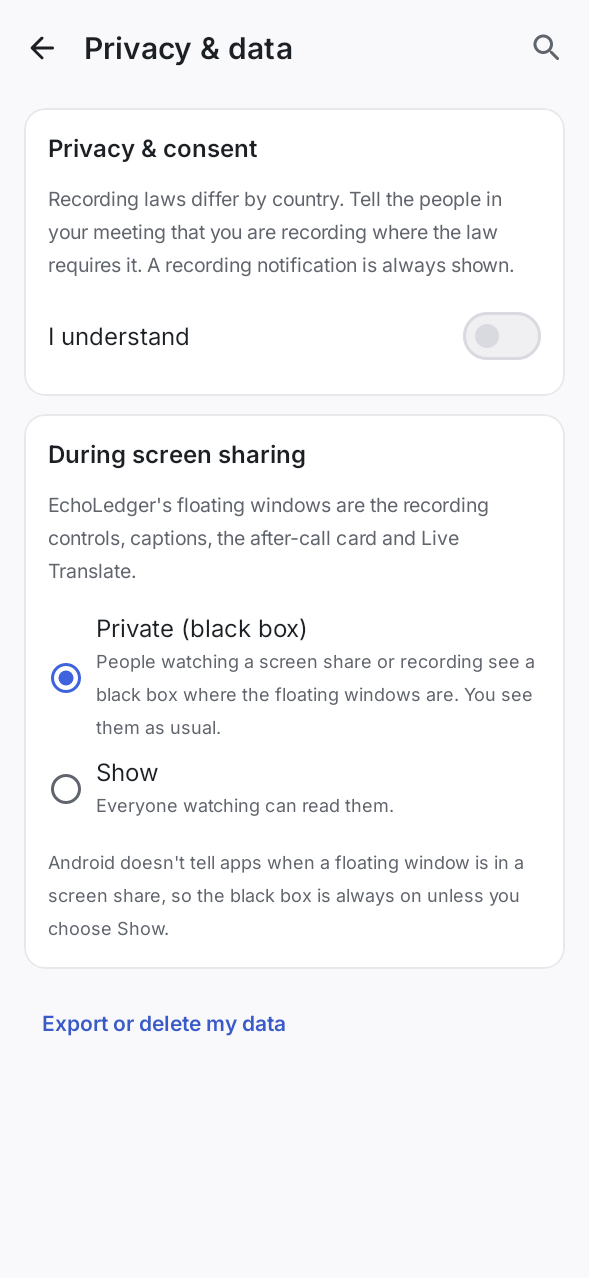
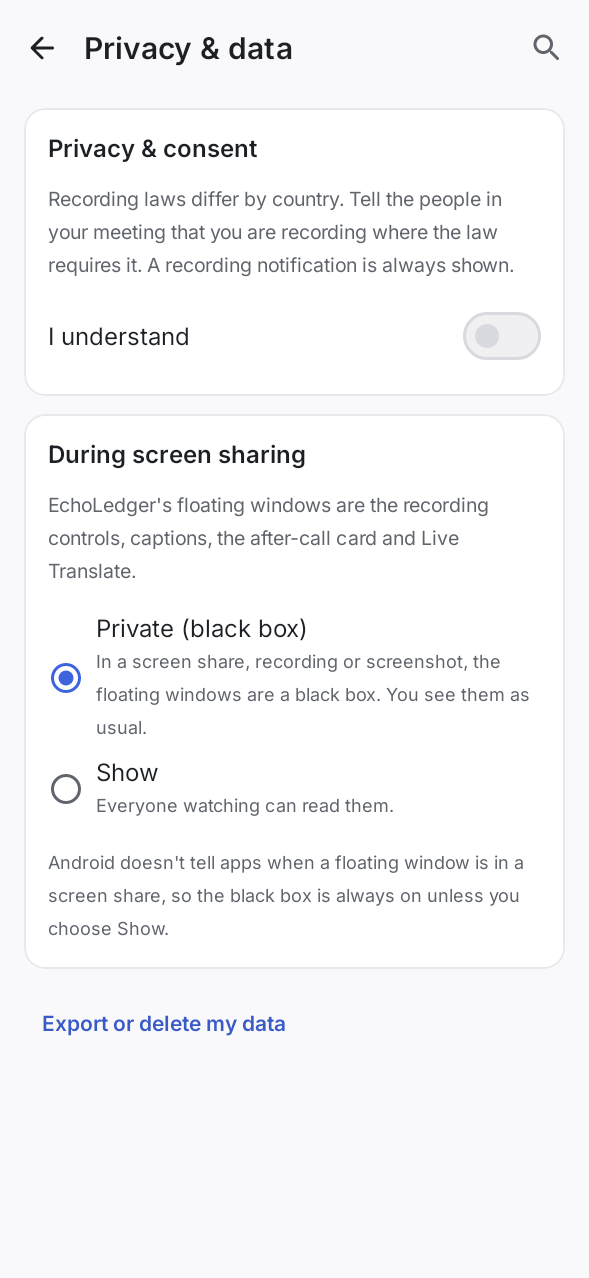
Phone wording: Display over other apps names the floating windows; Private and the screenshots line say screenshots too
Review of the v1.8.1 phone work:
- Setup: "Caption bubble (optional)" is "Display over other apps (optional)", the Captions page's words, with one line
  naming EchoLedger's floating windows (recording controls, captions, after-call card, Live Translate); the setup
  step's title too.
- During screen sharing, Private: "In a screen share, recording or screenshot, the floating windows are a black box.
  You see them as usual." FLAG_SECURE blacks out screenshots, the person's own too.
- App lock's "Hide content in Recents and screenshots" no longer says screenshots are always allowed: the app's screens
  can be screenshotted, and the floating windows are always left out of screenshots unless Show is chosen.
- SettingsStore's screenShareMode KDoc matches ShareGuard.Mode.of ("hide" = Private, "show" = Show, "black_box" and
  unknown read as Private).
- ScreenShareSettingTest waits for the mode to reach the floating windows: the store commits on its own thread and the
  save's continuation tells ShareGuard on the main one, which the old assert raced.

Screenshots, light and dark: phone-setup, phone-settings-privacy, phone-settings-lock, phone-translate-hidden (the
real Live Translate box in Game and Watch mode, and the grey dot that stays when the windows are hidden).

Changed region(s): [[0.1528, 0.4883, 0.9168, 0.5798]]

diff --git a/mobile/app/src/test/java/com/echoledger/mobile/ui/ScreenshotsTest.kt b/mobile/app/src/test/java/com/echoledger/mobile/ui/ScreenshotsTest.kt
@@ -2,6 +2,8 @@ package com.echoledger.mobile.ui
 
 import android.graphics.Bitmap
 import androidx.compose.foundation.layout.fillMaxSize
+import androidx.compose.foundation.layout.fillMaxWidth
+import androidx.compose.foundation.layout.height
 import androidx.compose.foundation.layout.padding
 import androidx.compose.material3.MaterialTheme
 import androidx.compose.material3.Surface
@@ -41,6 +43,7 @@ import com.echoledger.mobile.testsupport.ScreenTest
 import com.echoledger.mobile.testsupport.ServerFixtures
 import com.echoledger.mobile.testsupport.pairLocally
 import com.echoledger.mobile.testsupport.pumpUntil
+import com.echoledger.mobile.testsupport.simulateBiometrics
 import com.echoledger.mobile.testsupport.storeRecording
 import com.echoledger.mobile.ui.design.DesignGallery
 import com.github.takahirom.roborazzi.captureRoboImage
@@ -245,6 +248,88 @@ class ScreenshotsTest : ScreenTest() {
         compose.onNodeWithText("Privacy & data").performScrollTo().performClick()
         compose.onNodeWithText("Private (black box)").assertExists()
         capture("settings-privacy")
+    }
+
+    /** Setup: Display over other apps names the floating windows it is for (review of v1.8.1). */
+    @Test
+    fun setupOverlayStep() {
+        runBlocking { app.pairLocally(server) }
+        shoot {
+            SetupScreen(
+                vm,
+                Capabilities(34, true, micPermission = true, notificationPermission = false, overlayPermission = false),
+                onBack = {},
+                onRecheck = {}
+            )
+        }
+        compose.onNodeWithText("Display over other apps (optional)").assertExists()
+        capture("setup")
+    }
+
+    /**
+     * Live Translate while the floating windows are hidden (review of v1.8.1): the real box with its text, then the same
+     * place hidden, where only the grey dot ("Show EchoLedger windows") stays, in Game and in Watch mode.
+     */
+    @Test
+    fun translateHidden() {
+        shoot {
+            androidx.compose.foundation.layout.Column(
+                Modifier.padding(16.dp),
+                verticalArrangement = androidx.compose.foundation.layout.Arrangement.spacedBy(24.dp)
+            ) {
+                listOf(false, true).forEach { subtitles ->
+                    androidx.compose.ui.viewinterop.AndroidView(
+                        factory = { context ->
+                            com.echoledger.mobile.overlay.TranslateTextView(context, subtitles).apply {
+                                style(
+                                    18,
+                                    2,
+                                    com.echoledger.mobile.translate.BoxBackground.DARK,
+                                    showOriginal = true,
+                                    language = "EN",
+                                    subtitleBox = true
+                                )
+                                content(
+                                    "Push to the left side, they are behind the wall.",
+                                    "",
+                                    "بائیں طرف چلو، وہ دیوار کے پیچھے ہیں۔",
+                                    "UR",
+                                    false,
+                                    null
+                                )
+                            }
+                        },
+                        modifier = Modifier.fillMaxWidth().height(110.dp)
+                    )
+                    androidx.compose.foundation.layout.Box(Modifier.fillMaxWidth().height(110.dp)) {
+                        com.echoledger.mobile.overlay.PrivateDot(
+                            onShow = {},
+                            modifier = Modifier.align(androidx.compose.ui.Alignment.TopEnd)
+                        )
+                    }
+                }
+            }
+        }
+        capture("translate-hidden")
+    }
+
+    /** Settings → App lock: the floating windows are left out of screenshots unless During screen sharing is Show. */
+    @Test
+    fun settingsAppLock() {
+        runBlocking {
+            app.pairLocally(server)
+            app.graph.settings.update { it.copy(appLockEnabled = true) }
+        }
+        app.simulateBiometrics(true)
+        pumpUntil("the lock to be on") { vm.settings.value.appLockEnabled }
+        shoot {
+            androidx.compose.runtime.CompositionLocalProvider(LocalUnlockPrompter provides UnlockPrompter { it(true) }) {
+                SettingsScreen(vm, onSetup = {})
+            }
+        }
+        compose.onNodeWithText("App lock").performScrollTo().performClick()
+        compose.onNodeWithText("Hide content in Recents and screenshots", useUnmergedTree = true).assertExists()
+        capture("settings-lock")
     }
 
     /** Settings → Captions: live captions are a floating window over the call. */

diff --git a/mobile/app/src/main/java/com/echoledger/mobile/ui/Screens.kt b/mobile/app/src/main/java/com/echoledger/mobile/ui/Screens.kt
@@ -826,7 +826,11 @@ fun SetupScreen(vm: MainViewModel, capabilities: Capabilities, onBack: () -> Uni
                     notifLauncher.launch(Manifest.permission.POST_NOTIFICATIONS)
                 }
             }
-            StepRow("Caption bubble (optional)", capabilities.overlayPermission) {
+            StepRow(
+                "Display over other apps (optional)",
+                capabilities.overlayPermission,
+                detail = "For EchoLedger's floating windows: the recording controls, captions, the after-call card and Live Translate."
+            ) {
                 context.startActivity(Intent(Settings.ACTION_MANAGE_OVERLAY_PERMISSION, Uri.parse("package:${context.packageName}")))
             }
         }
@@ -918,7 +922,7 @@ fun SetupScreen(vm: MainViewModel, capabilities: Capabilities, onBack: () -> Uni
 }
 
 @Composable
-private fun StepRow(title: String, done: Boolean, onFix: () -> Unit) {
+private fun StepRow(title: String, done: Boolean, detail: String? = null, onFix: () -> Unit) {
     Row(verticalAlignment = Alignment.CenterVertically) {
         Icon(
             if (done) Icons.Rounded.CheckCircle else Icons.Rounded.RadioButtonUnchecked,
@@ -927,12 +931,10 @@ private fun StepRow(title: String, done: Boolean, onFix: () -> Unit) {
             modifier = Modifier.size(18.dp)
         )
         Spacer(Modifier.width(8.dp))
-        Text(
-            title,
-            color = if (done) Brand.Success else Brand.Text,
-            modifier = Modifier.weight(1f).semantics { stateDescription = if (done) "Done" else "Needed" },
-            fontSize = 14.sp
-        )
+        Column(Modifier.weight(1f).semantics(mergeDescendants = true) { stateDescription = if (done) "Done" else "Needed" }) {
+            Text(title, color = if (done) Brand.Success else Brand.Text, fontSize = 14.sp)
+            detail?.let { Text(it, color = Brand.Muted, fontSize = 12.sp) }
+        }
         if (!done) TextButton(onClick = onFix) { Text("Allow") }
     }
 }
@@ -1082,7 +1084,12 @@ internal fun AppLockSection(vm: MainViewModel, settings: AppSettings) {
             Row(verticalAlignment = Alignment.CenterVertically) {
                 Column(Modifier.weight(1f)) {
                     Text("Hide content in Recents and screenshots")
-                    Text("Off by default: screenshots are always allowed unless you turn this on.", color = Brand.Muted, fontSize = 12.sp)
+                    Text(
+                        "Off by default, so you can take screenshots of the app. EchoLedger's floating windows are always left out of " +
+                            "screenshots unless you choose Show in During screen sharing.",
+                        color = Brand.Muted,
+                        fontSize = 12.sp
+                    )
                 }
                 Switch(
                     checked = settings.secureScreen,

diff --git a/mobile/app/src/test/java/com/echoledger/mobile/ui/ScreenShareSettingTest.kt b/mobile/app/src/test/java/com/echoledger/mobile/ui/ScreenShareSettingTest.kt
@@ -38,7 +38,7 @@ class ScreenShareSettingTest : ScreenTest() {
         compose.onNodeWithText("Show").assertIsNotSelected()
         compose.onAllNodes(SemanticsMatcher.keyIsDefined(SemanticsProperties.Selected)).assertCountEquals(2)
         compose.onNodeWithText(
-            "People watching a screen share or recording see a black box where the floating windows are. You see them as usual.",
+            "In a screen share, recording or screenshot, the floating windows are a black box. You see them as usual.",
             useUnmergedTree = true
         ).assertExists()
         compose.onNodeWithText("Everyone watching can read them.", useUnmergedTree = true).assertExists()
@@ -55,12 +55,13 @@ class ScreenShareSettingTest : ScreenTest() {
 
         compose.onNodeWithText("Show").performClick()
         pumpUntil("Show to be saved") { stored() == "show" }
-        assertEquals(ShareGuard.Mode.SHOW, ShareGuard.mode.value)
+        // The store commits on its own thread; the save's own continuation tells the floating windows on the main one.
+        pumpUntil("Show to reach the floating windows") { ShareGuard.mode.value == ShareGuard.Mode.SHOW }
         compose.onNodeWithText("Show").assertIsSelected()
 
         compose.onNodeWithText("Private (black box)").performClick()
         pumpUntil("Private to be saved") { stored() == "hide" }
-        assertEquals(ShareGuard.Mode.PRIVATE, ShareGuard.mode.value)
+        pumpUntil("Private to reach the floating windows") { ShareGuard.mode.value == ShareGuard.Mode.PRIVATE }
     }
 
     @Test

diff --git a/mobile/app/src/test/java/com/echoledger/mobile/ui/SetupScreenTest.kt b/mobile/app/src/test/java/com/echoledger/mobile/ui/SetupScreenTest.kt
@@ -94,7 +94,11 @@ class SetupScreenTest : ScreenTest() {
 
         compose.onNodeWithText("Microphone").assertIsDisplayed()
         compose.onNodeWithText("Notifications (Stop / Keep / Discard actions)").assertIsDisplayed()
-        compose.onNodeWithText("Caption bubble (optional)").assertIsDisplayed()
+        compose.onNodeWithText("Display over other apps (optional)").assertIsDisplayed()
+        compose.onNodeWithText(
+            "For EchoLedger's floating windows: the recording controls, captions, the after-call card and Live Translate.",
+            useUnmergedTree = true
+        ).assertExists()
         compose.onAllNodesWithText("Allow").assertCountEquals(2)
     }
 
@@ -130,7 +134,7 @@ class SetupScreenTest : ScreenTest() {
     }
 
     @Test
-    fun `Allow for the caption bubble opens the overlay settings page`() {
+    fun `Allow for display over other apps opens the overlay settings page`() {
         showSetup(caps(mic = true, notif = true, overlay = false))
 
         compose.onNodeWithText("Allow").performClick()

diff --git a/mobile/app/src/androidTest/java/com/echoledger/mobile/e2e/PermissionsAndRecordingTest.kt b/mobile/app/src/androidTest/java/com/echoledger/mobile/e2e/PermissionsAndRecordingTest.kt
@@ -89,7 +89,7 @@ class PermissionsAndRecordingTest : E2eTest() {
         openSetup()
         assertTrue(Ui.has("•  Microphone"))
         assertTrue(Ui.hasContaining("Notifications"))
-        assertTrue(Ui.hasContaining("Caption bubble"))
+        assertTrue(Ui.hasContaining("Display over other apps"))
         assertTrue(Ui.hasContaining("Not enabled yet.") || Ui.hasContaining("helper"))
         Ui.clickDescription("Back")
         Ui.openTab("Record")
@@ -131,9 +131,9 @@ class PermissionsAndRecordingTest : E2eTest() {
     }
 
     @Test
-    fun theCaptionBubbleRowOpensTheSystemOverlaySettings() {
+    fun theDisplayOverOtherAppsRowOpensTheSystemOverlaySettings() {
         openSetup()
-        allowFor("•  Caption bubble (optional)").click()
+        allowFor("•  Display over other apps (optional)").click()
         Ui.awaitCondition("the overlay permission screen", Ui.NORMAL) { Ui.find(By.pkg("com.android.settings")) != null }
         assertFalse(Settings.canDrawOverlays(Ui.context))
         Ui.device.pressBack()

diff --git a/mobile/app/src/main/java/com/echoledger/mobile/data/SettingsStore.kt b/mobile/app/src/main/java/com/echoledger/mobile/data/SettingsStore.kt
@@ -37,7 +37,11 @@ data class AppSettings(
     val closedAnnouncements: List<String> = emptyList(),
     /** The home-screen widget shows "WhatsApp call" instead of each recording's title (since v1.6). */
     val widgetHideTitles: Boolean = false,
-    /** Since v1.8.1, while EchoLedger's cards are seen in a screen share: "hide" (a dot), "black_box" (FLAG_SECURE) or "show". */
+    /**
+     * Since v1.8.1, Settings → Privacy & data → During screen sharing ([com.echoledger.mobile.core.ShareGuard.Mode.of]):
+     * "hide" = Private, the default (FLAG_SECURE on every floating window); "show" = Show; "black_box" (the first v1.8.1
+     * builds) and any unknown value read as Private.
+     */
     val screenShareMode: String = "hide",
     /** Absent in settings stored before v1.1.1, which also reset the old default "hide content" (on) to off. */
     val settingsVersion: Int = 2,

diff --git a/mobile/app/src/main/java/com/echoledger/mobile/ui/SettingsScreens.kt b/mobile/app/src/main/java/com/echoledger/mobile/ui/SettingsScreens.kt
@@ -790,7 +790,7 @@ private fun ScreenShareSection(vm: MainViewModel, settings: AppSettings) {
         Triple(
             ShareGuard.Mode.PRIVATE,
             "Private (black box)",
-            "People watching a screen share or recording see a black box where the floating windows are. You see them as usual."
+            "In a screen share, recording or screenshot, the floating windows are a black box. You see them as usual."
         ),
         Triple(ShareGuard.Mode.SHOW, "Show", "Everyone watching can read them.")
     )

diff --git a/mobile/app/src/main/java/com/echoledger/mobile/privilege/Capability.kt b/mobile/app/src/main/java/com/echoledger/mobile/privilege/Capability.kt
@@ -55,5 +55,5 @@ enum class SetupStep(val title: String) {
     MICROPHONE("Allow microphone"),
     NOTIFICATIONS("Allow notifications"),
     HELPER("Enable call capture (Shizuku or ADB)"),
-    OVERLAY("Allow the caption bubble (optional)")
+    OVERLAY("Allow display over other apps (optional)")
 }
